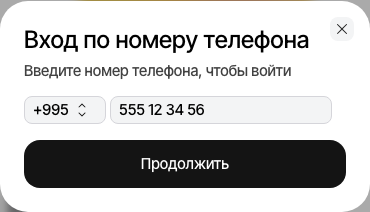
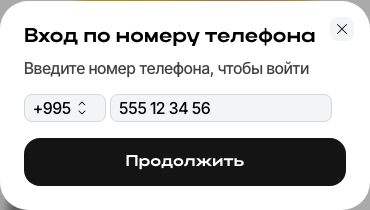
Update welcome and sign-in typography from Figma

diff --git a/src/styles.css b/src/styles.css
@@ -585,14 +585,14 @@ body:has(.tabbar:not([hidden])) #app { width:100%; transform:none; }
 .welcome-screen h1 { position:absolute; top:521px; left:24px; margin:0; font:700 36px/40px 'Actay Wide',sans-serif; color:#252529; }
 .welcome-actions { position:absolute; top:668px; left:16px; right:16px; display:grid; gap:8px; }
 .welcome-actions button { height:56px; min-height:56px; border-radius:20px; font:600 15px/18px Inter,sans-serif; }
-.welcome-actions .welcome-login { font:500 15px/18px 'Inter Tight',sans-serif; }
+.welcome-actions .welcome-login { font:700 16px/20px 'Actay Wide',sans-serif; }
 .welcome-login,.auth-submit { background:#141414; color:white; }
 .welcome-guest { background:#e5e2f6; color:#6641fb; }
-.welcome-actions .welcome-guest { font:500 15px/18px 'Inter Tight',sans-serif; }
+.welcome-actions .welcome-guest { font:700 16px/20px 'Actay Wide',sans-serif; }
 .auth-dialog { width:calc(100% - 32px); max-width:370px; padding:24px; border:0; border-radius:28px; }
 .auth-dialog::backdrop { background:rgba(20,20,20,.35); backdrop-filter:blur(6px); }
-.auth-dialog h2 { font:500 24px/29px 'Inter Tight',sans-serif; padding-right:0; }
-.auth-dialog p { font:500 15px/18px 'Inter Tight',sans-serif; color:#414141; }
+.auth-dialog h2 { font:700 20px/normal 'Actay Wide',sans-serif; padding-right:0; }
+.auth-dialog p { font:500 16px/normal 'Inter Tight',sans-serif; color:#414141; }
 .auth-close { position:absolute; right:16px; top:16px; width:24px; height:24px; padding:4px; border-radius:8px; background:#f3f4f5; }
 .auth-close img { display:block; }
 .phone-field { display:flex; gap:8px; margin-top:8px; }
@@ -611,11 +611,11 @@ body:has(.tabbar:not([hidden])) #app { width:100%; transform:none; }
 .auth-dialog h2 + p { margin:0 0 16px; }
 .auth-dialog .phone-field { margin-top:0; gap:4px; }
 .auth-dialog .phone-country { flex:0 0 82px; }
-.auth-dialog .phone-country select { width:100%; height:28px; border-radius:8px; padding:4px 28px 4px 8px; background:#f3f4f5; font:500 15px/18px 'Inter Tight',sans-serif; }
+.auth-dialog .phone-country select { width:100%; height:28px; border-radius:8px; padding:4px 28px 4px 8px; background:#f3f4f5; font:500 16px/19px 'Inter Tight',sans-serif; }
 .auth-dialog .phone-country>img { right:16px; transform:translateY(-50%); }
-.auth-dialog .phone-field input { flex:0 1 222px; width:222px; height:28px; border-radius:8px; padding:4px 8px; background:#f3f4f5; font:500 15px/18px 'Inter Tight',sans-serif; }
+.auth-dialog .phone-field input { flex:0 1 222px; width:222px; height:28px; border-radius:8px; padding:4px 8px; background:#f3f4f5; font:500 16px/19px 'Inter Tight',sans-serif; }
 .auth-dialog #phone-error:empty { display:none; }
-.auth-dialog .auth-submit { width:100%; margin-top:16px; }
+.auth-dialog .auth-submit { width:100%; margin-top:16px; padding:0 16px; font:700 16px/20px 'Actay Wide',sans-serif; }
 
 
 /* Prototype canvas follows the 402 × 874 Figma frame. */
